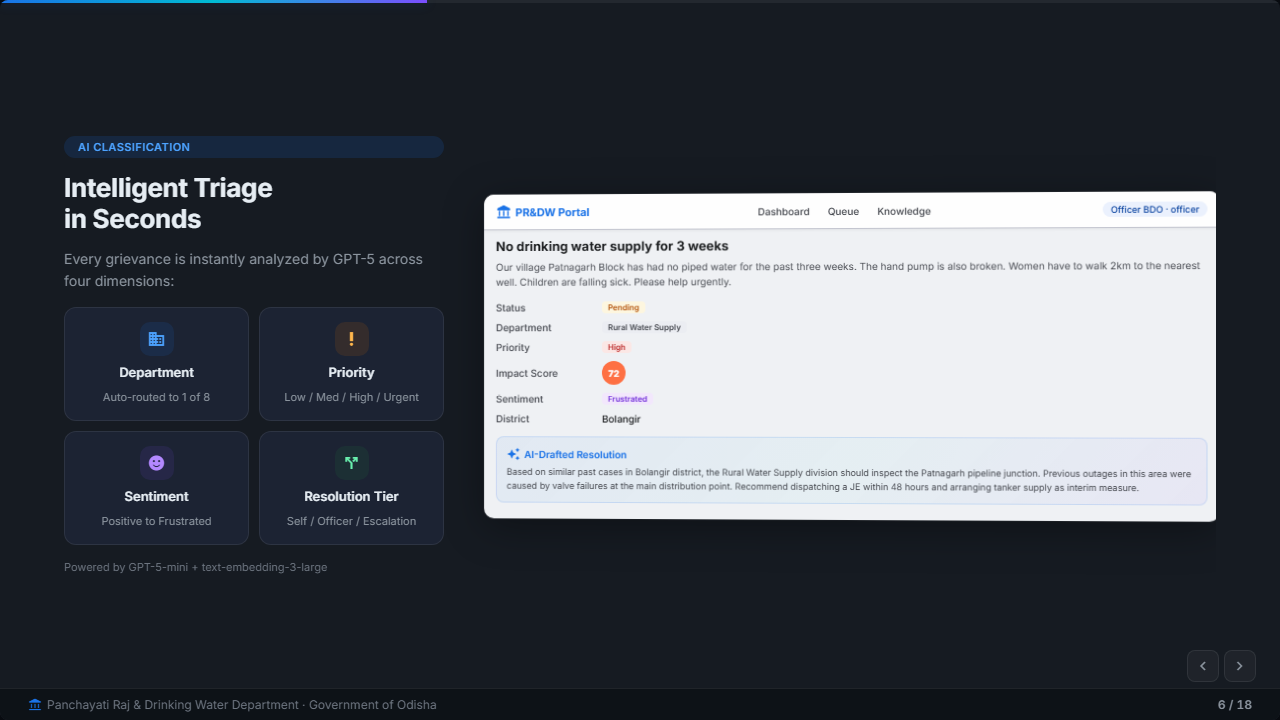
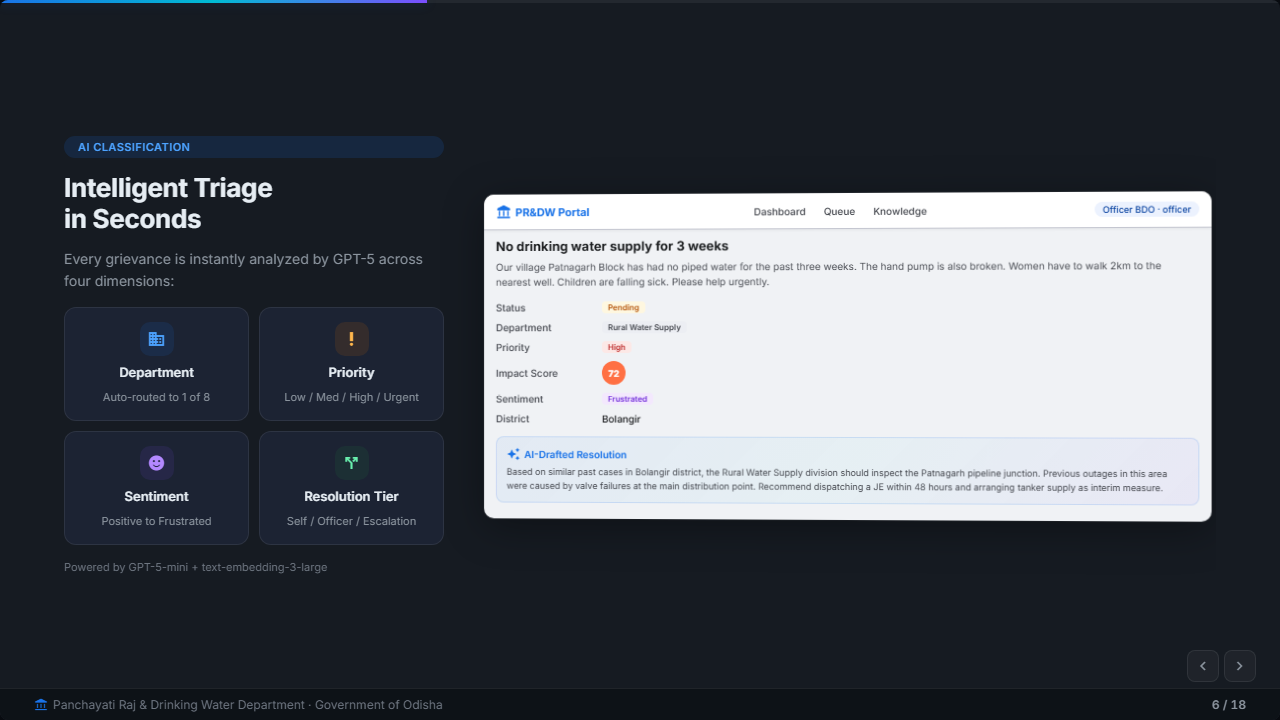
importer fix

diff --git a/demo/presentation.html b/demo/presentation.html
@@ -118,10 +118,11 @@ body{
 .footer-bar{
   position:absolute;bottom:0;left:0;right:0;z-index:100;
   display:flex;align-items:center;justify-content:space-between;
-  padding:8px 28px;
+  padding:8px 34px;
   background:rgba(13,17,23,.92);backdrop-filter:blur(12px);
   border-top:1px solid var(--border);
   font-size:12px;color:var(--text-muted);
+  overflow:hidden;
 }
 .footer-bar .govt{display:flex;align-items:center;gap:5px}
 .footer-bar .govt .icon{font-size:14px;color:var(--primary)}
@@ -769,7 +770,7 @@ body{
       </ul>
     </div>
     <!-- Right: Dashboard Mockup -->
-    <div style="flex:1;min-width:0" class="mockup-animate">
+    <div style="flex:1;min-width:0;padding-right:8px" class="mockup-animate">
       <div class="mockup-frame" style="width:100%">
         <!-- Navbar -->
         <div class="m-navbar">
@@ -862,7 +863,7 @@ body{
       <p class="animate a-d4" style="font-size:11px;color:var(--text-muted)">Powered by GPT-5-mini + text-embedding-3-large</p>
     </div>
     <!-- Right: Grievance Detail Mockup -->
-    <div style="flex:1;min-width:0" class="mockup-animate">
+    <div style="flex:1;min-width:0;padding-right:8px" class="mockup-animate">
       <div class="mockup-frame" style="width:100%">
         <div class="m-navbar">
           <div class="m-logo"><span class="icon filled">account_balance</span> PR&amp;DW Portal</div>
@@ -1078,7 +1079,7 @@ body{
       </ul>
     </div>
     <!-- Right: Community Mockup -->
-    <div style="flex:1;min-width:0" class="mockup-animate">
+    <div style="flex:1;min-width:0;padding-right:8px" class="mockup-animate">
       <div class="mockup-frame" style="width:100%">
         <div class="m-navbar">
           <div class="m-logo"><span class="icon filled">account_balance</span> PR&amp;DW Portal</div>
@@ -1154,7 +1155,7 @@ body{
       </ul>
     </div>
     <!-- Right: Knowledge Page Mockup -->
-    <div style="flex:1;min-width:0" class="mockup-animate">
+    <div style="flex:1;min-width:0;padding-right:8px" class="mockup-animate">
       <div class="mockup-frame" style="width:100%">
         <div class="m-navbar">
           <div class="m-logo"><span class="icon filled">account_balance</span> PR&amp;DW Portal</div>
@@ -1230,8 +1231,8 @@ body{
       </ul>
     </div>
     <!-- Right: Queue Mockup -->
-    <div style="flex:1;min-width:0" class="mockup-animate">
-      <div class="mockup-frame" style="width:100%">
+    <div style="flex:1;min-width:0;padding-right:12px;overflow:hidden" class="mockup-animate">
+      <div class="mockup-frame" style="width:100%;overflow:hidden">
         <div class="m-navbar">
           <div class="m-logo"><span class="icon filled">account_balance</span> PR&amp;DW Portal</div>
           <div class="m-nav-links"><span>Dashboard</span><span class="active">Queue</span><span>Knowledge</span></div>
@@ -1320,7 +1321,7 @@ body{
       </ul>
     </div>
     <!-- Right: Spam Detail Mockup -->
-    <div style="flex:1;min-width:0" class="mockup-animate">
+    <div style="flex:1;min-width:0;padding-right:8px" class="mockup-animate">
       <div class="mockup-frame" style="width:100%">
         <div class="m-navbar">
           <div class="m-logo"><span class="icon filled">account_balance</span> PR&amp;DW Portal</div>
@@ -1492,10 +1493,10 @@ body{
 <div class="slide" data-slide="14" data-transition="slide">
   <div class="slide-inner" style="flex-direction:row;text-align:left;gap:36px">
     <!-- Left: Features -->
-    <div style="flex:0 0 380px;display:flex;flex-direction:column;gap:14px">
+    <div style="flex:0 0 380px;display:flex;flex-direction:column;gap:10px">
       <span class="tag tag-orange animate">Administration</span>
-      <h2 class="animate a-d1" style="font-size:26px">Complete Admin Control</h2>
-      <ul class="feature-list animate a-d2">
+      <h2 class="animate a-d1" style="font-size:24px">Complete Admin Control</h2>
+      <ul class="feature-list animate a-d2" style="gap:8px">
         <li><span class="icon filled">manage_accounts</span><div><strong style="color:var(--text-primary)">User Management</strong><br>Create, edit, delete, block, unblock accounts</div></li>
         <li><span class="icon filled">notifications</span><div><strong style="color:var(--text-primary)">SLA Deadline Alerts</strong><br>Notification bell with severity tiers, 60s polling</div></li>
         <li><span class="icon filled">report</span><div><strong style="color:var(--text-primary)">Spam Review</strong><br>Review flagged users, verify photo IDs</div></li>
@@ -1505,7 +1506,7 @@ body{
       </ul>
     </div>
     <!-- Right: Admin Mockup -->
-    <div style="flex:1;min-width:0" class="mockup-animate">
+    <div style="flex:1;min-width:0;padding-right:8px" class="mockup-animate">
       <div class="mockup-frame" style="width:100%">
         <div class="m-navbar">
           <div class="m-logo"><span class="icon filled">account_balance</span> PR&amp;DW Portal</div>
@@ -1529,9 +1530,9 @@ body{
         <!-- Alert card -->
         <div style="padding:6px 12px">
           <div style="background:var(--app-surface);border:1px solid var(--app-outline-variant);border-radius:8px;padding:8px 10px;border-left:3px solid var(--app-error)">
-            <div style="display:flex;align-items:center;justify-content:space-between;margin-bottom:3px">
-              <div style="font-size:10px;font-weight:600;color:var(--app-on-surface)">#GRV-2026-000042 &mdash; No water supply</div>
-              <span class="m-badge" style="background:var(--app-error-container);color:var(--app-error)">BREACHED</span>
+            <div style="display:flex;align-items:center;justify-content:space-between;gap:8px;margin-bottom:3px">
+              <div style="font-size:10px;font-weight:600;color:var(--app-on-surface);flex:1;min-width:0">#GRV-2026-000042 &mdash; No water supply</div>
+              <span class="m-badge" style="background:var(--app-error-container);color:var(--app-error);flex-shrink:0">BREACHED</span>
             </div>
             <div style="font-size:9px;color:var(--app-on-surface-variant)">Deadline passed 6h ago &middot; Rural Water Supply &middot; Bolangir</div>
           </div>

diff --git a/demo/slides/slide-12-officer.html b/demo/slides/slide-12-officer.html
@@ -15,8 +15,8 @@
       </ul>
     </div>
     <!-- Right: Queue Mockup -->
-    <div style="flex:1;min-width:0;padding-right:8px" class="mockup-animate">
-      <div class="mockup-frame" style="width:100%">
+    <div style="flex:1;min-width:0;padding-right:12px;overflow:hidden" class="mockup-animate">
+      <div class="mockup-frame" style="width:100%;overflow:hidden">
         <div class="m-navbar">
           <div class="m-logo"><span class="icon filled">account_balance</span> PR&amp;DW Portal</div>
           <div class="m-nav-links"><span>Dashboard</span><span class="active">Queue</span><span>Knowledge</span></div>

diff --git a/demo/slides/slide-06-ai-classification.html b/demo/slides/slide-06-ai-classification.html
@@ -31,7 +31,7 @@
       <p class="animate a-d4" style="font-size:11px;color:var(--text-muted)">Powered by GPT-5-mini + text-embedding-3-large</p>
     </div>
     <!-- Right: Grievance Detail Mockup -->
-    <div style="flex:1;min-width:0" class="mockup-animate">
+    <div style="flex:1;min-width:0;padding-right:8px" class="mockup-animate">
       <div class="mockup-frame" style="width:100%">
         <div class="m-navbar">
           <div class="m-logo"><span class="icon filled">account_balance</span> PR&amp;DW Portal</div>

diff --git a/demo/slides/_base.css b/demo/slides/_base.css
@@ -109,10 +109,11 @@ body{
 .footer-bar{
   position:absolute;bottom:0;left:0;right:0;z-index:100;
   display:flex;align-items:center;justify-content:space-between;
-  padding:8px 28px;
+  padding:8px 34px;
   background:rgba(13,17,23,.92);backdrop-filter:blur(12px);
   border-top:1px solid var(--border);
   font-size:12px;color:var(--text-muted);
+  overflow:hidden;
 }
 .footer-bar .govt{display:flex;align-items:center;gap:5px}
 .footer-bar .govt .icon{font-size:14px;color:var(--primary)}

diff --git a/demo/slides/slide-11-schemes.html b/demo/slides/slide-11-schemes.html
@@ -14,7 +14,7 @@
       </ul>
     </div>
     <!-- Right: Knowledge Page Mockup -->
-    <div style="flex:1;min-width:0" class="mockup-animate">
+    <div style="flex:1;min-width:0;padding-right:8px" class="mockup-animate">
       <div class="mockup-frame" style="width:100%">
         <div class="m-navbar">
           <div class="m-logo"><span class="icon filled">account_balance</span> PR&amp;DW Portal</div>

diff --git a/demo/slides/slide-13-accountability.html b/demo/slides/slide-13-accountability.html
@@ -31,7 +31,7 @@
       </ul>
     </div>
     <!-- Right: Spam Detail Mockup -->
-    <div style="flex:1;min-width:0" class="mockup-animate">
+    <div style="flex:1;min-width:0;padding-right:8px" class="mockup-animate">
       <div class="mockup-frame" style="width:100%">
         <div class="m-navbar">
           <div class="m-logo"><span class="icon filled">account_balance</span> PR&amp;DW Portal</div>

diff --git a/demo/slides/slide-10-community.html b/demo/slides/slide-10-community.html
@@ -13,7 +13,7 @@
       </ul>
     </div>
     <!-- Right: Community Mockup -->
-    <div style="flex:1;min-width:0" class="mockup-animate">
+    <div style="flex:1;min-width:0;padding-right:8px" class="mockup-animate">
       <div class="mockup-frame" style="width:100%">
         <div class="m-navbar">
           <div class="m-logo"><span class="icon filled">account_balance</span> PR&amp;DW Portal</div>

diff --git a/demo/slides/slide-05-citizen.html b/demo/slides/slide-05-citizen.html
@@ -16,7 +16,7 @@
       </ul>
     </div>
     <!-- Right: Dashboard Mockup -->
-    <div style="flex:1;min-width:0" class="mockup-animate">
+    <div style="flex:1;min-width:0;padding-right:8px" class="mockup-animate">
       <div class="mockup-frame" style="width:100%">
         <!-- Navbar -->
         <div class="m-navbar">

diff --git a/demo/seed/extras.py b/demo/seed/extras.py
@@ -267,14 +267,21 @@ def _build_vouches(grievances: list[dict], user_ids: dict[str, str]) -> list[dic
     cit_entries = [(uname, uid) for uname, uid in user_ids.items() if uname.startswith("citizen")]
 
     comment_idx = 0
+    used_pairs: set[tuple[str, str]] = set()
     for idx, grv in enumerate(public_grvs[:6]):
         # Each public grievance gets 1-3 vouches from different citizens
         n_vouches = 3 if idx < 2 else (2 if idx < 4 else 1)
         for v_idx in range(n_vouches):
-            uname, uid = cit_entries[(idx + v_idx + 1) % len(cit_entries)]
-            # Skip if citizen filed this grievance
-            if grv.get("citizen_user_id") == uid:
-                uname, uid = cit_entries[(idx + v_idx + 2) % len(cit_entries)]
+            # Find a citizen who didn't file this grievance and hasn't vouched it yet
+            offset = 1
+            while offset <= len(cit_entries):
+                uname, uid = cit_entries[(idx + v_idx + offset) % len(cit_entries)]
+                if grv.get("citizen_user_id") != uid and (grv["_id"], uid) not in used_pairs:
+                    break
+                offset += 1
+            else:
+                continue  # no eligible citizen left for this grievance
+            used_pairs.add((grv["_id"], uid))
             is_anonymous = (comment_idx % 5 == 3)  # roughly 1 in 5 are anonymous
             comment = _vouch_comments[comment_idx % len(_vouch_comments)]
             comment_idx += 1
